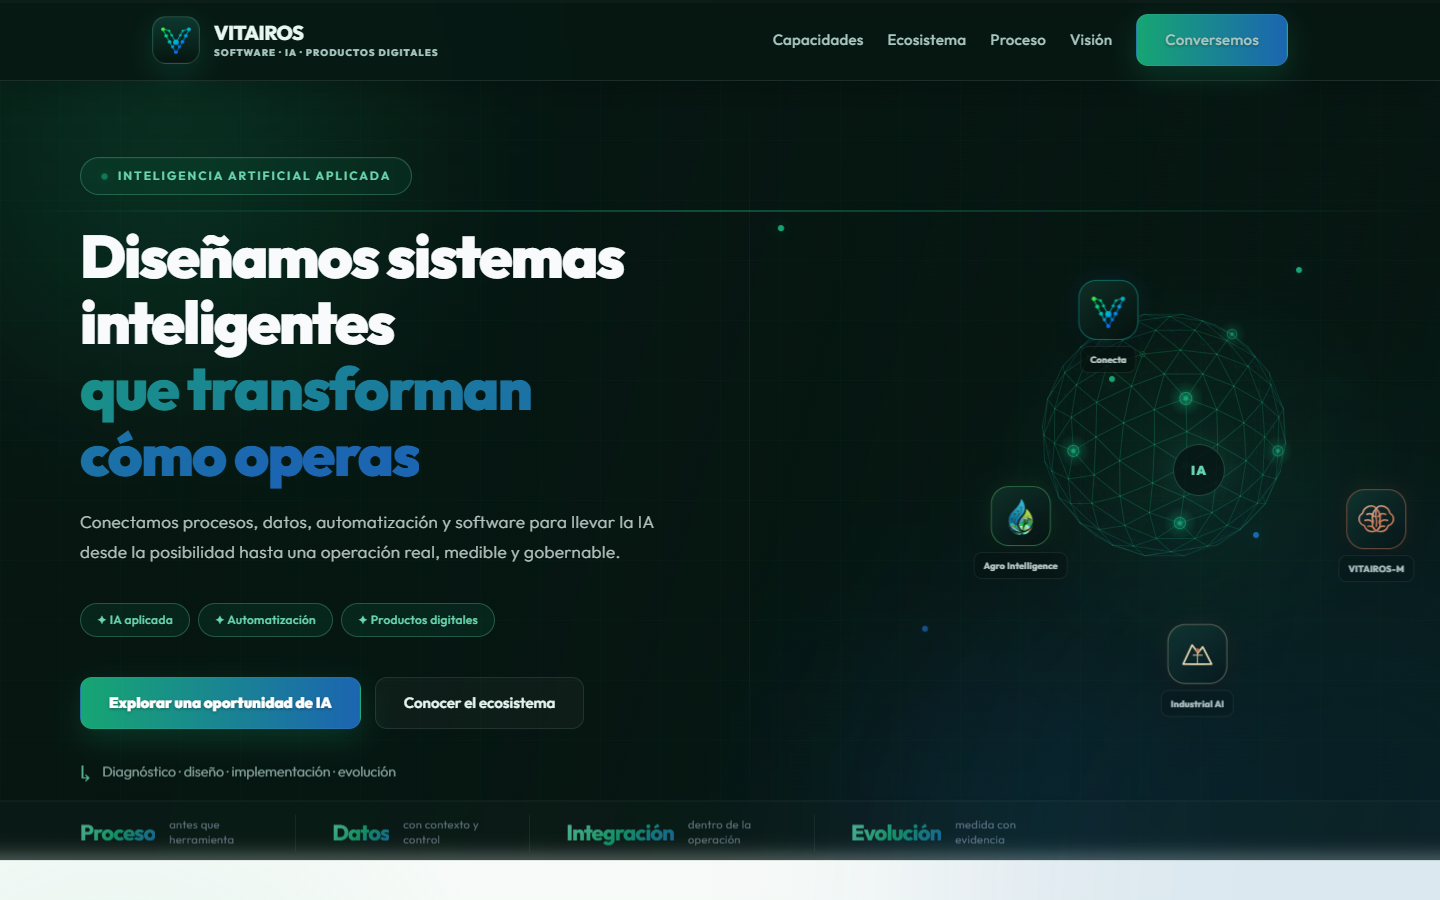
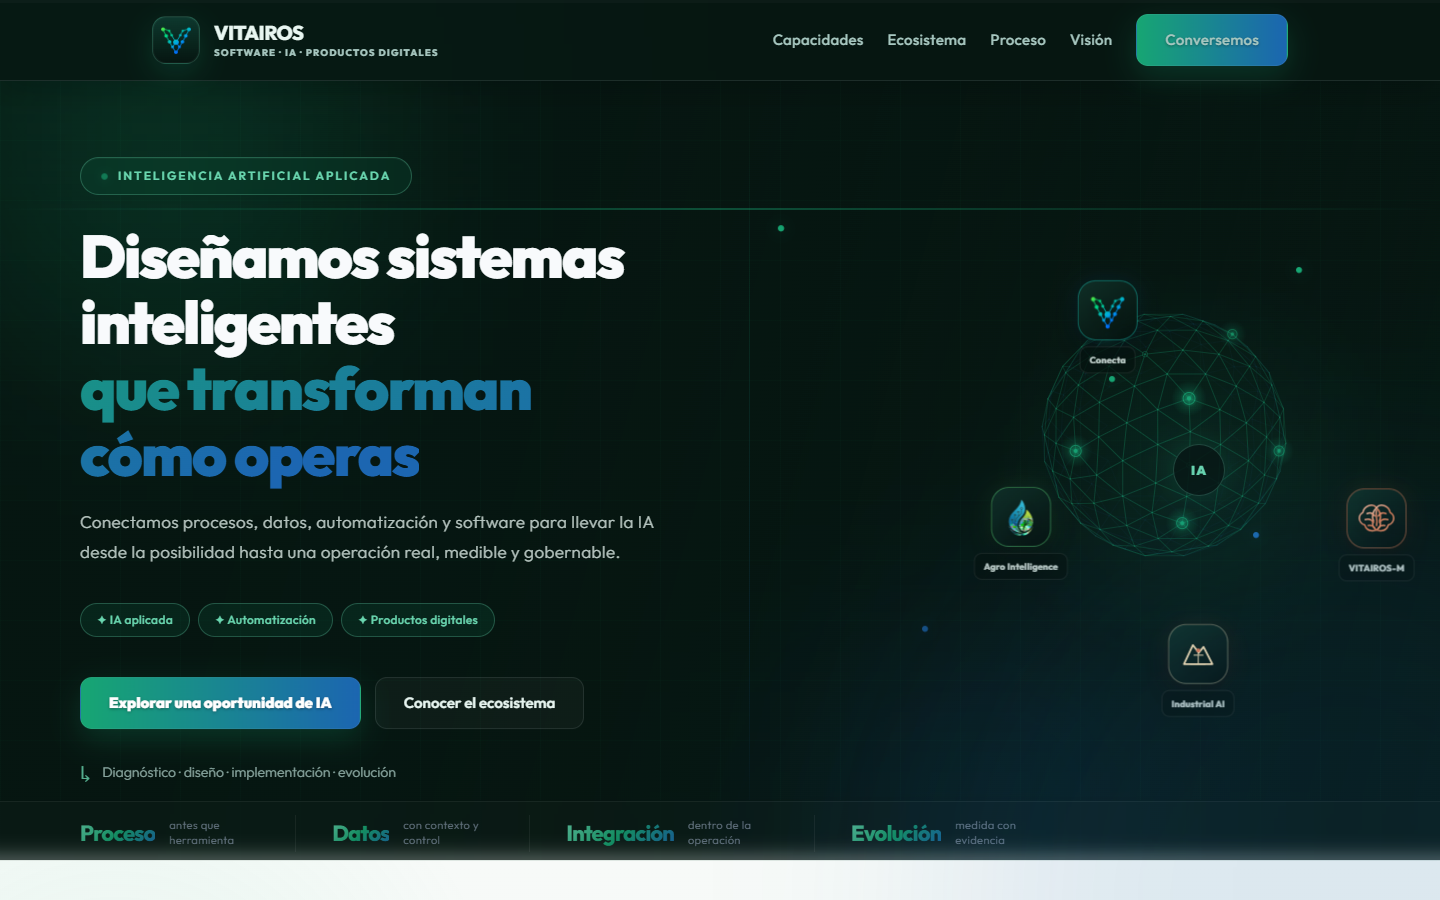
fix: improve tablet homepage composition

diff --git a/assets/homepage.css b/assets/homepage.css
@@ -916,8 +916,9 @@ footer{margin-top:0}
   .surface-faq .faq-list{grid-template-columns:1fr}
 }
 
-@media(max-width:768px){
+@media(max-width:900px){
   .container{padding:0 20px}
+  .brand-tag{display:none}
   section{padding:74px 0}
   .section-header{margin-bottom:40px}.section-title{font-size:clamp(30px,9vw,40px)}.section-lead{font-size:16px;line-height:1.65}
   .hero-banner{display:flex;flex-direction:column;height:auto;max-height:none;min-height:0;margin-top:70px;padding-top:0}
@@ -946,3 +947,4 @@ footer{margin-top:0}
 }
 
 @media(prefers-reduced-motion:reduce){.scroll-progress span{transition:none}.intro-loader__projects{opacity:1;transform:none}}
+@media(max-width:900px) and (prefers-reduced-motion:reduce){.orbit-project--m{transform:translateX(123px)}.orbit-project--industrial{transform:translateY(123px)}.orbit-project--agro{transform:translateX(-123px)}.orbit-project--conecta{transform:translateY(-123px)}}

diff --git a/docs/HOMEPAGE_EVOLUTION.md b/docs/HOMEPAGE_EVOLUTION.md
@@ -26,6 +26,6 @@ La fuente Outfit se sirve desde el repositorio; la homepage no depende de Google
 
 ## Validación
 
-El script `tests/homepage-smoke.mjs` revisa estructura y contenido. `tests/homepage-browser-qa.cjs` ejecuta pruebas visuales y funcionales en ocho tamaños de pantalla, valida los cuatro destinos internos y detecta errores de consola, imágenes rotas, IDs duplicados y desbordamiento horizontal.
+El script `tests/homepage-smoke.mjs` revisa estructura y contenido. `tests/homepage-browser-qa.cjs` ejecuta pruebas visuales y funcionales en nueve tamaños de pantalla, incluido el breakpoint intermedio de tablet, valida los cuatro destinos internos y detecta errores de consola, imágenes rotas, IDs duplicados y desbordamiento horizontal.
 
 Esta entrega se mantiene en modo preview. No modifica producción.
